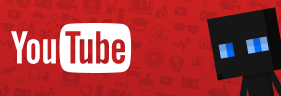
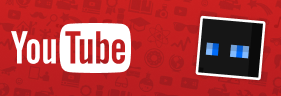
Version 2.07

Changed region(s): [[0.6833, 0.0625, 1.0, 1.0], [0.0854, 0.3125, 0.1139, 0.3438], [0.0285, 0.3125, 0.0569, 0.3438]]

diff --git a/main.min.css b/main.min.css
@@ -1,1 +1,1 @@
-@import url(https://fonts.googleapis.com/css2?family=Roboto:ital,wght@0,100..900;1,100..900&display=swap);.material-icons{font-family:'Material Icons';font-weight:400;font-style:normal;color:#fff;font-size:1.25rem;padding:.1875rem;display:inline-block;line-height:1;vertical-align:middle;-webkit-font-smoothing:antialiased;text-rendering:optimizeLegibility;-moz-osx-font-smoothing:grayscale}.icons-wrapper{display:flex;justify-content:center;gap:20px}.icon{width:96px;height:96px;border-radius:50%;object-fit:cover;filter:drop-shadow(0 0 6px rgba(0, 0, 0, .12)) drop-shadow(0 6px 6px rgba(0, 0, 0, .24));transition:transform .4s cubic-bezier(.4,0,.2,1),filter .4s cubic-bezier(.4,0,.2,1)}.icon:hover{transform:translateY(-8px) scale(1.05)}body{background-image:url(assets/images/bg/background.png);background-repeat:no-repeat;background-size:cover;color:#fff;font-family:Roboto,sans-serif;display:flex;flex-direction:column;align-items:center;justify-content:center;height:100vh;margin:0;padding:0}.page{position:absolute;top:60px;left:20px;right:20px;bottom:20px;opacity:0;pointer-events:none;transition:opacity .4s ease-in-out;overflow-y:auto;padding-right:15px}.page.active{opacity:1;pointer-events:auto}main{position:relative;width:80%;max-width:1280px;height:680px;background-color:rgba(0,0,0,.4);box-shadow:0 10px 20px rgba(0,0,0,.19);padding:20px;backdrop-filter:blur(25px);border-radius:90px;transition:ease-in-out .4s;overflow:hidden;box-sizing:border-box;border:solid 1px rgba(255,255,255,.124)}main:hover{box-shadow:0 10px 20px rgba(0,0,0,.19),0 6px 6px rgba(0,0,0,.23)}nav{position:absolute;top:0;left:0;right:0;text-align:center;height:60px}.nav-link{color:#d2d2d2;text-decoration:none;font-size:20px;font-weight:initial;margin:0 10px;padding:1% .5em;display:inline-block;font-weight:400;border-radius:4px}.nav-link.active-link,.nav-link:hover{color:#fff;font-weight:500;border-radius:50px}.nav-link.activ .nav-link a,.nav-link.active-link{background-color:rgba(0,0,0,.35);padding:8px 32px}a{list-style-type:none;text-decoration:none;transition:all .3s;color:#009bff}a:hover{color:#007fd3}.introTitle{font-size:44px;padding-left:50px;position:absolute;top:30%;font-weight:500}h1,h2,h3{font-weight:300;margin:0}.titleProjects{text-align:center;font-size:clamp(2rem,5vw,55px);margin-top:50px}.titleAbout{text-align:center;align-items:center;font-weight:300;font-size:54px;color:#fff}.title3{font-weight:300;font-size:54px;color:#fff;margin-bottom:20px}.introText{font-size:clamp(1.8rem,1vw,5rem);margin:0;display:flex;line-height:38px;position:absolute;top:40%;flex-wrap:wrap;align-items:center;gap:20px;padding-left:50px}.introText2{font-size:20px;margin:0;display:flex;line-height:38px;position:absolute;padding-left:50px;top:64%;flex-wrap:wrap;align-items:center;font-weight:300;gap:20px}.linkGames{position:absolute;padding-left:50px;font-size:24px;font-weight:300;top:70%}ul{margin:0;padding-left:30px}.logo{position:absolute!important;min-width:256px;max-height:256px;top:50%;left:85%;border-radius:100px;transform:translate(-50%,-50%);margin-left:auto}img{max-width:100%;height:auto}.software{margin:25px;font-size:20px}.btn-see-more_container{text-align:center;padding:20px 0}.btn-see-more{display:inline-block;padding:12px 44px;font-size:1rem;background-color:#00000034;box-shadow:0 8px 16px rgba(0,0,0,.2);backdrop-filter:blur(10px);color:#fff;border:none;border-radius:4px;cursor:pointer;transition:all .3s ease;max-width:100%}.btn-download{display:inline-block;padding:12px 24px;font-size:1rem;background-color:#00000034;box-shadow:0 8px 16px rgba(0,0,0,.2);backdrop-filter:blur(10px);color:#fff;border:none;border-radius:4px;cursor:pointer;transition:all .3s ease}.btn-see-more:hover{color:#d2d2d2;transform:translateY(-3px)}.card-container{display:flex;justify-content:center;flex-wrap:wrap;margin-top:25px}.card-container h3{font-weight:700}.card{width:325px;color:#fff;border-radius:4px;transition:.3s;cursor:pointer;overflow:hidden;backdrop-filter:blur(30px);background-color:#00000034;box-shadow:0 0 24px rgba(0,0,0,.22),0 24px 24px rgba(0,0,0,.3);margin:20px}.card:hover{transform:translate(0,-5px)}.card img{width:100%;height:auto}.card-content{padding:16px}.card-content h3{font-size:28px;margin-bottom:3px}#projects-full-view{display:none;position:relative}#close-projects-btn{position:absolute;top:-20px;left:15px;font-size:32px;color:#fff;text-decoration:none;transition:transform .2s ease}#close-projects-btn:hover{transform:scale(1.2)}#changelog-view{display:none;position:relative}#close-changelog-btn{position:absolute;top:-20px;left:15px;font-size:32px;color:#fff;text-decoration:none;transition:transform .2s ease}#close-changelog-btn:hover{transform:scale(1.2)}.btn-changelog{color:rgba(255,255,255,.25)}.btn-changelog:hover{color:rgba(255,255,255,.45)}#os-mockups-view{display:none;position:relative}#close-os-mockups-btn{position:absolute;top:-20px;left:15px;font-size:32px;color:#fff;text-decoration:none;transition:transform .2s ease}#close-os-mockups-btn:hover{transform:scale(1.2)}.about_container{padding:30px;line-height:1.3}.about_container p{font-size:20px;text-align:center;padding-left:50px}.question_container{padding-left:80px;margin:-30px auto}.question_container h3{font-weight:500;font-size:20px}.question_container h2{font-weight:600;font-size:30px}.question_container p{font-size:18px}.social-container{position:absolute;top:50%;left:50%;transform:translate(-50%,-50%);text-align:center}span{color:rgba(255,255,255,.25);font-weight:200;margin:0 auto}footer{position:absolute;bottom:20px;left:50%;transform:translateX(-50%);text-align:center;color:#fff;font-weight:300;flex-direction:column}@media screen and (max-width:1000px){main{border-radius:40px}}@media screen and (max-width:900px){.navbar{padding:0;backdrop-filter:blur(15px)}main{padding:185px;border-radius:20px}.introTitle{font-size:32px;padding-left:20px;top:20%}.logo{display:none}.material-icons{display:none}.icon{height:3.5em;max-width:2.7em;margin:20px auto;border-radius:50%}.nav-link{font-size:16px;padding:1% .5em;margin:0 5px;align-items:center;justify-content:center}.introTitle{font-size:2rem;top:10%;margin:0 25%}.introText{font-size:1.3rem;top:20%;margin:0 auto;text-align:center;padding-left:20px}.introText2{font-size:1.5rem;top:62%;margin:0 auto;padding-left:20px}.about_container{padding:30px;line-height:1.3}.about_container p{padding:20px;max-width:300px;margin:0 auto;text-align:center}.question_container{padding-left:20px;margin:-30px auto}footer{display:none}}
+@import url(https://fonts.googleapis.com/css2?family=Roboto:ital,wght@0,100..900;1,100..900&display=swap);.material-icons{font-family:'Material Icons';font-weight:400;font-style:normal;color:#fff;font-size:1.25rem;padding:.1875rem;display:inline-block;line-height:1;vertical-align:middle;-webkit-font-smoothing:antialiased;text-rendering:optimizeLegibility;-moz-osx-font-smoothing:grayscale}.icons-wrapper{display:flex;justify-content:center;gap:20px}.icon{width:96px;height:96px;border-radius:50%;object-fit:cover;filter:drop-shadow(0 0 6px rgba(0, 0, 0, .12)) drop-shadow(0 6px 6px rgba(0, 0, 0, .24));transition:transform .4s cubic-bezier(.4,0,.2,1),filter .4s cubic-bezier(.4,0,.2,1)}.icon:hover{transform:translateY(-8px) scale(1.05)}body{background-image:url(assets/images/bg/background.png);background-repeat:no-repeat;background-size:cover;color:#fff;font-family:Roboto,sans-serif;display:flex;flex-direction:column;align-items:center;justify-content:center;height:100vh;margin:0;padding:0}.page{position:absolute;top:60px;left:20px;right:20px;bottom:20px;opacity:0;pointer-events:none;transition:opacity .4s ease-in-out;overflow-y:auto;padding-right:15px}.page.active{opacity:1;pointer-events:auto}main{position:relative;width:80%;max-width:1280px;height:680px;background-color:rgba(0,0,0,.4);box-shadow:0 10px 20px rgba(0,0,0,.19);padding:20px;backdrop-filter:blur(25px);border-radius:90px;transition:ease-in-out .4s;overflow:hidden;box-sizing:border-box;border:solid 1px rgba(255,255,255,.124)}main:hover{box-shadow:0 10px 20px rgba(0,0,0,.19),0 6px 6px rgba(0,0,0,.23)}nav{position:absolute;top:0;left:0;right:0;text-align:center;height:60px}.nav-link{color:#d2d2d2;text-decoration:none;font-size:20px;font-weight:initial;margin:0 10px;padding:1% .5em;display:inline-block;font-weight:400;border-radius:4px}.nav-link.active-link,.nav-link:hover{color:#fff;font-weight:500;border-radius:50px}.nav-link.activ .nav-link a,.nav-link.active-link{background-color:rgba(0,0,0,.35);padding:8px 32px}a{list-style-type:none;text-decoration:none;transition:all .3s;color:#009bff}a:hover{color:#007fd3}h1,h2,h3{font-weight:470;margin:0}.titleProjects{text-align:center;font-size:clamp(2rem,5vw,55px);margin-top:50px}.title3{font-weight:470;font-size:54px;color:#fff;margin-bottom:20px}.introText2{font-size:20px;margin:0;display:flex;line-height:38px;position:absolute;padding-left:50px;top:64%;flex-wrap:wrap;align-items:center;font-weight:300;gap:20px}.linkGames{position:absolute;padding-left:50px;font-size:24px;font-weight:300;top:70%}ul{margin:0;padding-left:30px}.logo{position:absolute!important;min-width:256px;max-height:256px;top:50%;left:85%;border-radius:100px;transform:translate(-50%,-50%);margin-left:auto}img{max-width:100%;height:auto}.software{margin:25px;font-size:20px}.btn-see-more_container{text-align:center;padding:20px 0}.btn-see-more{display:inline-block;padding:12px 44px;font-size:1rem;background-color:#00000034;box-shadow:0 8px 16px rgba(0,0,0,.2);backdrop-filter:blur(10px);color:#fff;border:none;border-radius:4px;cursor:pointer;transition:all .3s ease;max-width:100%}.btn-download{display:inline-block;padding:12px 24px;font-size:1rem;background-color:#00000034;box-shadow:0 8px 16px rgba(0,0,0,.2);backdrop-filter:blur(10px);color:#fff;border:none;border-radius:4px;cursor:pointer;transition:all .3s ease}.btn-see-more:hover{color:#d2d2d2;transform:translateY(-3px)}.card-container{display:flex;justify-content:center;flex-wrap:wrap;margin-top:25px}.card-container h3{font-weight:700}.card{width:325px;color:#fff;border-radius:4px;transition:.3s;cursor:pointer;overflow:hidden;backdrop-filter:blur(30px);background-color:#00000034;box-shadow:0 0 24px rgba(0,0,0,.22),0 24px 24px rgba(0,0,0,.3);margin:20px}.card:hover{transform:translate(0,-5px)}.card img{width:100%;height:auto}.card-content{padding:16px}.card-content h3{font-size:28px;margin-bottom:3px}#projects-full-view{display:none;position:relative}#close-projects-btn{position:absolute;top:-20px;left:15px;font-size:32px;color:#fff;text-decoration:none;transition:transform .2s ease}#close-projects-btn:hover{transform:scale(1.2)}#changelog-view{display:none;position:relative}#close-changelog-btn{position:absolute;top:-20px;left:15px;font-size:32px;color:#fff;text-decoration:none;transition:transform .2s ease}#close-changelog-btn:hover{transform:scale(1.2)}.btn-changelog{color:rgba(255,255,255,.25)}.btn-changelog:hover{color:rgba(255,255,255,.45)}#os-mockups-view{display:none;position:relative}#close-os-mockups-btn{position:absolute;top:-20px;left:15px;font-size:32px;color:#fff;text-decoration:none;transition:transform .2s ease}#close-os-mockups-btn:hover{transform:scale(1.2)}.home_container{font-size:44px;font-weight:470;position:absolute;top:50%;left:50%;transform:translate(-50%,-50%)}.about_container{padding-left:50px;position:absolute;top:32%}.about_container p{font-size:1.3rem;top:20%;margin:0 auto;text-align:left;padding-left:20px}.about_container h1{text-align:left;padding-left:20px;font-weight:470;font-size:54px;color:#fff}.social-container{position:absolute;top:50%;left:50%;transform:translate(-50%,-50%);text-align:center}span{color:rgba(255,255,255,.25);font-weight:200;margin:0 auto}footer{position:absolute;bottom:20px;left:50%;transform:translateX(-50%);text-align:center;color:#fff;font-weight:300;flex-direction:column}@media screen and (max-width:1000px){main{border-radius:40px}}@media screen and (max-width:900px){.navbar{padding:0;backdrop-filter:blur(15px)}main{padding:185px;border-radius:20px}.introTitle{font-size:32px;padding-left:20px;top:20%}.logo{display:none}.material-icons{display:none}.icon{height:3.5em;max-width:2.7em;margin:20px auto;border-radius:50%}.nav-link{font-size:16px;padding:1% .5em;margin:0 5px;align-items:center;justify-content:center}.introTitle{font-size:2rem;top:10%;margin:0 25%}.introText2{font-size:1.5rem;top:62%;margin:0 auto;padding-left:20px}.about_container{padding:30px;line-height:1.3}.about_container p{padding:20px;max-width:300px;margin:0 auto;text-align:center}footer{display:none}}

diff --git a/index.html b/index.html
@@ -27,17 +27,12 @@
     <main>
         <!-- Home pages -->
         <section id="accueil" class="page active">
-            <h1 class="introTitle" data-i18n-key="welcome">Bienvenue</h1>
-            <p class="introText" data-i18n-key="intro">Salut ! Je suis KevFR, un étudiant français faisant <br> des
-                vidéos sur YouTube,
-                passioné
-                par le domaine <br>de l’informatique et du jeux-vidéos !
-            </p>
-            <br>
-            <p class="introText2" data-i18n-key="myGames">Pour voir mes jeux:</p>
-            <a href="https://kevfr8studio.github.io" class="linkGames">https://kevfr8studio.github.io</a>
+            <div class="home_container">
+                <center>
+                    <h1 data-i18n-key="welcome">Bienvenue</h1>
+                </center>
+            </div>
 
-            <img src="./assets/images/misc/logo.png" alt="KevFR's logo" class="logo">
             <footer>KevFR © 2026</footer>
         </section>
 
@@ -230,25 +225,13 @@
                         pour Progressbar 95</a>,
                         j'apprends à composer mes propres musiques et je fais de l'infographie
                     </p>
-                    <p data-i18n-key="statut">Je suis actuellement en BTS GPME</p>
-                </div>
-                <div class="question_container">
-                    <h2 data-i18n-key="fewquest">Quelques questions</h2>
-
-                    <h3 data-i18n-key="quest1">Pourquoi « KevFR » et un Enderman comme avatar ? </h3>
-                    <p data-i18n-key="answer1">J'ai choisi « KevFR » puisque le mélange entre mon prénom et « FR » pour
-                        France collait bien.<br>
-                        Et pour mon avatar, je trouve simplement les Enderman stylé et le bleu est ma couleur préféré !
-                    </p>
                     <br>
-                    <h3 data-i18n-key="quest2">Qu'est-ce qui t'a motivé à proposer ce genre de contenu ?</h3>
-                    <p data-i18n-key="answer2">Selon moi, c'est surtout dans le but d'apporter de l'aide et de faire
-                        connaître l'informatique auprès
-                        d'un public néophyte. <br> L'informatique est un sujet passionnant mais trop mis à l'écart (et
-                        c'est bien dommage !)</p>
+                    <p data-i18n-key="statut">null</p>
                 </div>
+
+                <img src="./assets/images/misc/logo.png" alt="KevFR's logo" class="logo">
                 <footer>KevFR © 2026 <br><span><a href="#" id="btn-changelog" class="btn-changelog">Version
-                            2.06</a></span>
+                            2.07</a></span>
                 </footer>
             </div>
 
@@ -258,8 +241,11 @@
                 <h1 class="titleProjects">Changelog</h1>
                 <div style="padding: 30px; line-height: 1;">
 
-                    <!-- Version 2.07 -->
-                    <!-- Améliorations UX, améliorations traductions, améliorations page à propos -->
+                    <h1 style="font-weight: bolder">Version 2.07</h1>
+                    <p>&bull; Réfonte de la page d'acceuil et de la page à propos.</p>
+                    <p>&bull; Amélioration de la traduction.</p>
+                    <p>&bull; Changement de plusieurs images (logo et bannière YouTube).</p>
+                    <p>&bull; Optimisations et corrections.</p>
 
                     <h1 style="font-weight: bolder">Version 2.06</h1>
                     <p>&bull; Ajout d'une page permettant de consulter l'historique des versions.</p>

diff --git a/main.css b/main.css
@@ -61,6 +61,7 @@ body {
     padding: 0;
 }
 
+
 /* ---------------------------------------- */
 /* Monopage style */
 /* ---------------------------------------- */
@@ -160,18 +161,11 @@ a:hover {
 /* Titles */
 /* ---------------------------------------- */
 
-.introTitle {
-    font-size: 44px;
-    padding-left: 50px;
-    position: absolute;
-    top: 30%;
-    font-weight: 500;
-}
 
 h1,
 h2,
 h3 {
-    font-weight: 300;
+    font-weight: 470;
     margin: 0;
 }
 
@@ -181,16 +175,9 @@ h3 {
     margin-top: 50px;
 }
 
-.titleAbout {
-    text-align: center;
-    align-items: center;
-    font-weight: 300;
-    font-size: 54px;
-    color: white;
-}
 
 .title3 {
-    font-weight: 300;
+    font-weight: 470;
     font-size: 54px;
     color: white;
     margin-bottom: 20px;
@@ -201,18 +188,6 @@ h3 {
 /* Text */
 /* ---------------------------------------- */
 
-.introText {
-    font-size: clamp(1.8rem, 1vw, 5rem);
-    margin: 0;
-    display: flex;
-    line-height: 38px;
-    position: absolute;
-    top: 40%;
-    flex-wrap: wrap;
-    align-items: center;
-    gap: 20px;
-    padding-left: 50px;
-}
 
 .introText2 {
     font-size: 20px;
@@ -431,6 +406,7 @@ img {
 
 #close-os-mockups-btn:hover {
     transform: scale(1.2);
+
 }
 
 /* ---------------------------------------- */
@@ -438,35 +414,37 @@ img {
 /* ---------------------------------------- */
 
 
+.home_container {
+    font-size: 44px;
+    font-weight: 470;
+    position: absolute;
+    top: 50%;
+    left: 50%;
+    transform: translate(-50%, -50%);
+}
+
 .about_container {
-    padding: 30px;
-    line-height: 1.3;
+    padding-left: 50px;
+    position: absolute;
+    top: 32%;
 }
 
 .about_container p {
-    font-size: 20px;
-    text-align: center;
-    padding-left: 50px;
+    font-size: 1.3rem;
+    top: 20%;
+    margin: 0 auto;
+    text-align: left;
+    padding-left: 20px;
 }
 
-.question_container {
-    padding-left: 80px;
-    margin: -30px auto;
+.about_container h1 {
+    text-align: left;
+    padding-left: 20px;
+    font-weight: 470;
+    font-size: 54px;
+    color: white;
 }
 
-.question_container h3 {
-    font-weight: 500;
-    font-size: 20px;
-}
-
-.question_container h2 {
-    font-weight: 600;
-    font-size: 30px;
-}
-
-.question_container p {
-    font-size: 18px;
-}
 
 .social-container {
     position: absolute;
@@ -555,13 +533,6 @@ footer {
         margin: 0 25%;
     }
 
-    .introText {
-        font-size: 1.3rem;
-        top: 20%;
-        margin: 0 auto;
-        text-align: center;
-        padding-left: 20px;
-    }
 
     .introText2 {
         font-size: 1.5rem;
@@ -580,11 +551,6 @@ footer {
         max-width: 300px;
         margin: 0 auto;
         text-align: center;
-    }
-
-    .question_container {
-        padding-left: 20px;
-        margin: -30px auto;
     }
 
     footer {
